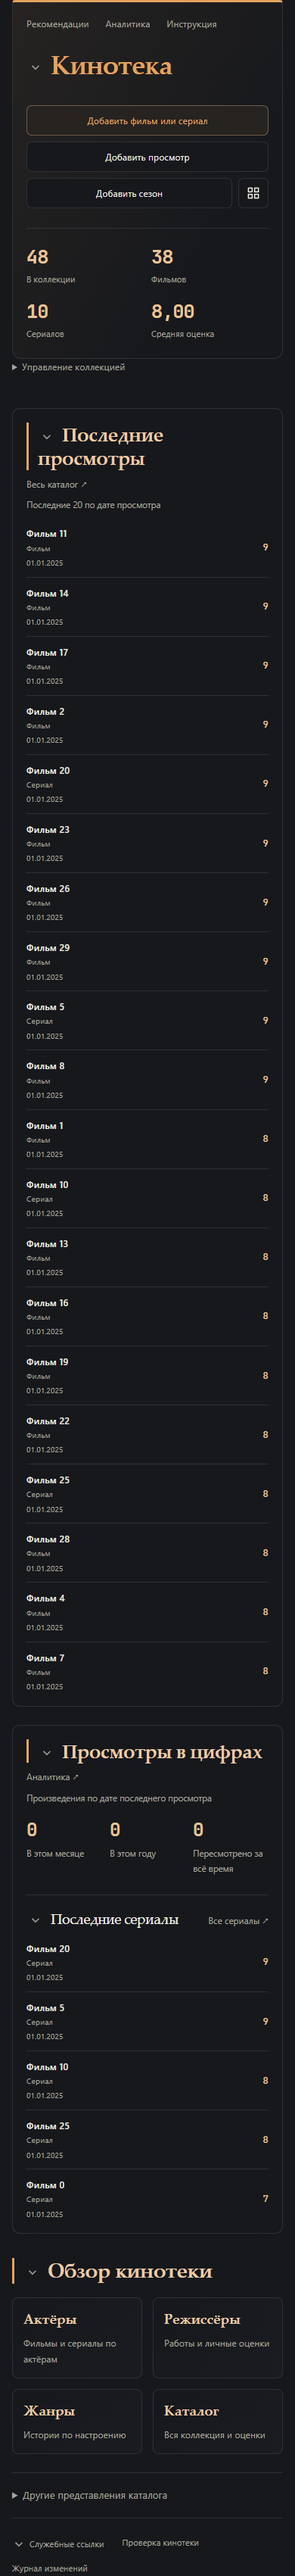
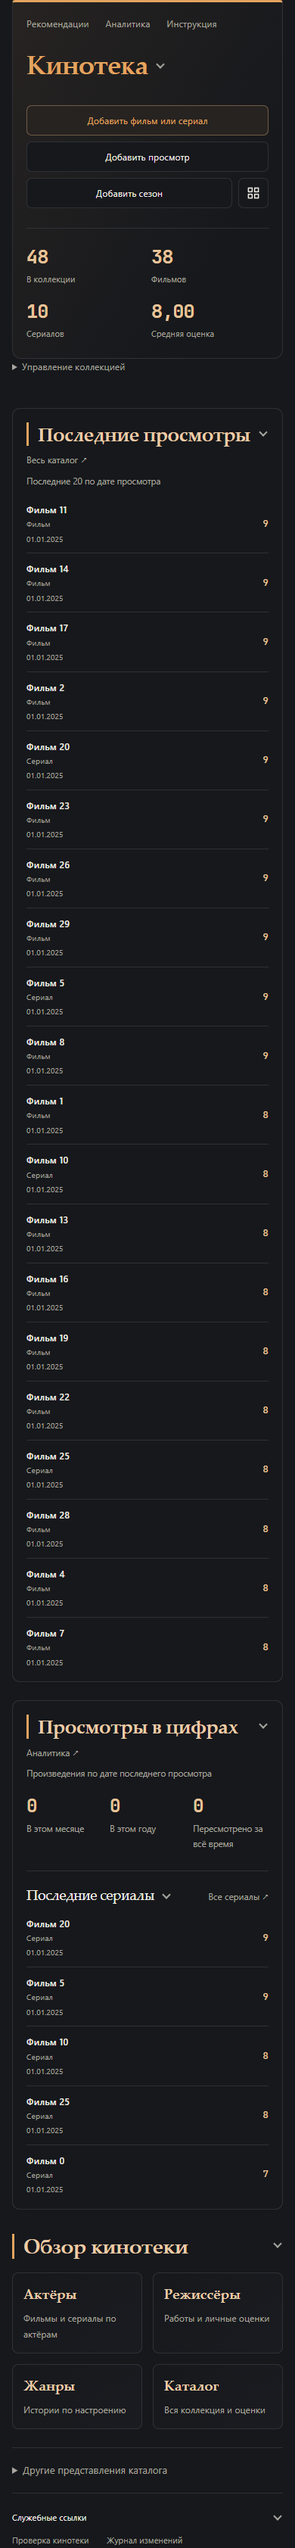
vault backup: 2026-10-09 22:23:53

diff --git a/Кино/_system/kino-home.css b/Кино/_system/kino-home.css
@@ -25,11 +25,14 @@
 }
 .kino-home-ui.kino-home-ui * { box-sizing: border-box; }
 .kino-home-ui.kino-home-ui [hidden] { display: none !important; }
-.kino-home-ui.kino-home-ui .kino-home-fold { display: inline-flex; align-items: center; justify-content: center; width: 24px; min-height: 24px; padding: 0; margin: 0 8px 0 0; border: 0; border-radius: 4px; background: transparent; color: var(--text-muted); vertical-align: middle; line-height: 1; }
-.kino-home-ui.kino-home-ui .kino-home-fold:hover { color: var(--home-accent); background: var(--home-tint); }
-.kino-home-ui.kino-home-ui .kino-home-fold svg { width: 18px; height: 18px; flex: 0 0 18px; }
-.kino-home-ui.kino-home-ui .kino-home-fold[aria-expanded="false"] svg { transform: rotate(-90deg); }
-.kino-home-ui.kino-home-ui .kino-home-footer>.kino-home-fold { width: auto; gap: 5px; font: inherit; margin: 0; }
+.kino-home-ui.kino-home-ui .kino-home-fold { display: flex; flex: 1 1 100%; justify-content: space-between; align-items: flex-start; gap: 12px; width: 100%; padding: 0; margin: 0; border: 0; border-radius: 0; background: transparent; color: inherit; font: inherit; line-height: inherit; letter-spacing: inherit; text-align: left; }
+.kino-home-ui.kino-home-ui .kino-home-fold:hover { color: var(--home-accent); background: transparent; }
+.kino-home-ui.kino-home-ui .kino-home-fold-title { flex: 1 1 auto; min-width: 0; }
+.kino-home-ui.kino-home-ui .kino-home-fold-chevron { display: block; flex: 0 0 8px; width: 8px; height: 8px; margin: 9px 3px 0 0; border-inline-end: 2px solid currentColor; border-block-end: 2px solid currentColor; color: var(--text-muted); transform: rotate(45deg); }
+.kino-home-ui.kino-home-ui .kino-home-fold[aria-expanded="false"] .kino-home-fold-chevron { transform: rotate(-45deg); }
+.kino-home-ui.kino-home-ui .kino-home-title .kino-home-fold-chevron { margin-top: .4em; }
+.kino-home-ui.kino-home-ui .kino-home-footer .kino-home-fold-chevron { margin-top: 4px; }
+.kino-home-ui.kino-home-ui .kino-home-panel-head>h2 { flex: 1 1 100%; min-width: 0; }
 .kino-home-ui.kino-home-ui .kino-home-panel[data-collapsed="true"] .kino-home-panel-head { margin-bottom: 0; }
 .kino-home-ui.kino-home-ui :is(a,button,summary):focus-visible { outline: 2px solid var(--home-accent); outline-offset: 3px; }
 .kino-home-ui.kino-home-ui a { text-decoration: none; overflow-wrap: anywhere; }

diff --git a/Кино/_system/kino_home.js b/Кино/_system/kino_home.js
@@ -132,15 +132,13 @@ module.exports = async ({ dv, app, obsidian = {} }) => {
         const instance = 'kino-fold-' + Math.random().toString(36).slice(2);
         function foldBlock(box, heading, targets, key, label) {
             box.dataset.fold = key;
+            const titleNodes = key === 'footer' ? [] : [...heading.childNodes];
             const button = el(heading, 'button', 'kino-home-fold'); button.type = 'button';
             heading.prepend(button);
-            const svg = doc.createElementNS('http://www.w3.org/2000/svg', 'svg');
-            svg.setAttribute('viewBox', '0 0 24 24'); svg.setAttribute('aria-hidden', 'true');
-            const arrow = doc.createElementNS('http://www.w3.org/2000/svg', 'path');
-            arrow.setAttribute('d', 'M6 9l6 6 6-6'); arrow.setAttribute('fill', 'none');
-            arrow.setAttribute('stroke', 'currentColor'); arrow.setAttribute('stroke-width', '2');
-            svg.appendChild(arrow); button.appendChild(svg);
-            if (key === 'footer') el(button, 'span', '', 'Служебные ссылки');
+            const title = el(button, 'span', 'kino-home-fold-title');
+            if (key === 'footer') title.textContent = 'Служебные ссылки';
+            else for (const node of titleNodes) title.appendChild(node);
+            el(button, 'span', 'kino-home-fold-chevron').setAttribute('aria-hidden', 'true');
             const nodes = targets.filter(Boolean);
             nodes.forEach((node, index) => { if (!node.id) node.id = `${instance}-${key}-${index}`; });
             button.setAttribute('aria-controls', nodes.map(node => node.id).join(' '));

diff --git a/Кино/_system/Редизайн — прогресс.md b/Кино/_system/Редизайн — прогресс.md
@@ -5,6 +5,13 @@ obsidianUIMode: preview
 
 Обновлено: 08.10.2026. **Главная кинотеки по образцу Книг завершена.** Основной редизайн, компактные строки, шапка и выбор года тоже завершены; массовые миграции повторно не выполнять. При «продолжай» сначала прочитать этот файл и актуальный запрос.
 
+## Сворачивание по образцу «Итогов чтения» — 09.10.2026
+
+- По уточнению пользователя эталон — `Книги/_system/Итоги чтения.md`, `reading_dashboard.js` и `reading-dashboard.css`. Файлы Книг только прочитаны.
+- **Готово:** весь текст заголовка является кнопкой; справа CSS-шеврон, меняющий направление при сворачивании. Отдельные стрелки слева убраны. Типографика, акцентная черта, доступность клавиатурой и сохранённые состояния блоков сохранены.
+- Изменены `kino_home.js`, `kino-home.css`, дополнен существующий тест сворачивания. **11/11** проверок проходят: home-ui 10/10 + design-ui главная 1/1. Проверены правое положение шеврона, кликабельный заголовок, повторное открытие, команды и адаптация. Телефонное превью просмотрено; заголовок последних просмотров на 390 px помещается в строку.
+- Снимок: `redesign-backups/home-folds-book-style-20261009/before.zip`. **Запрос завершён.**
+
 ## Сворачиваемые блоки главной — 09.10.2026
 
 - **Завершено:** все блоки главной можно свернуть и раскрыть стрелкой у заголовка. Шапка «Кинотека» скрывает навигацию, основные действия и счётчики; отдельно сворачиваются последние просмотры, просмотры в цифрах, последние сериалы, обзор и служебные ссылки. Заголовок/стрелка остаются доступны для раскрытия.
